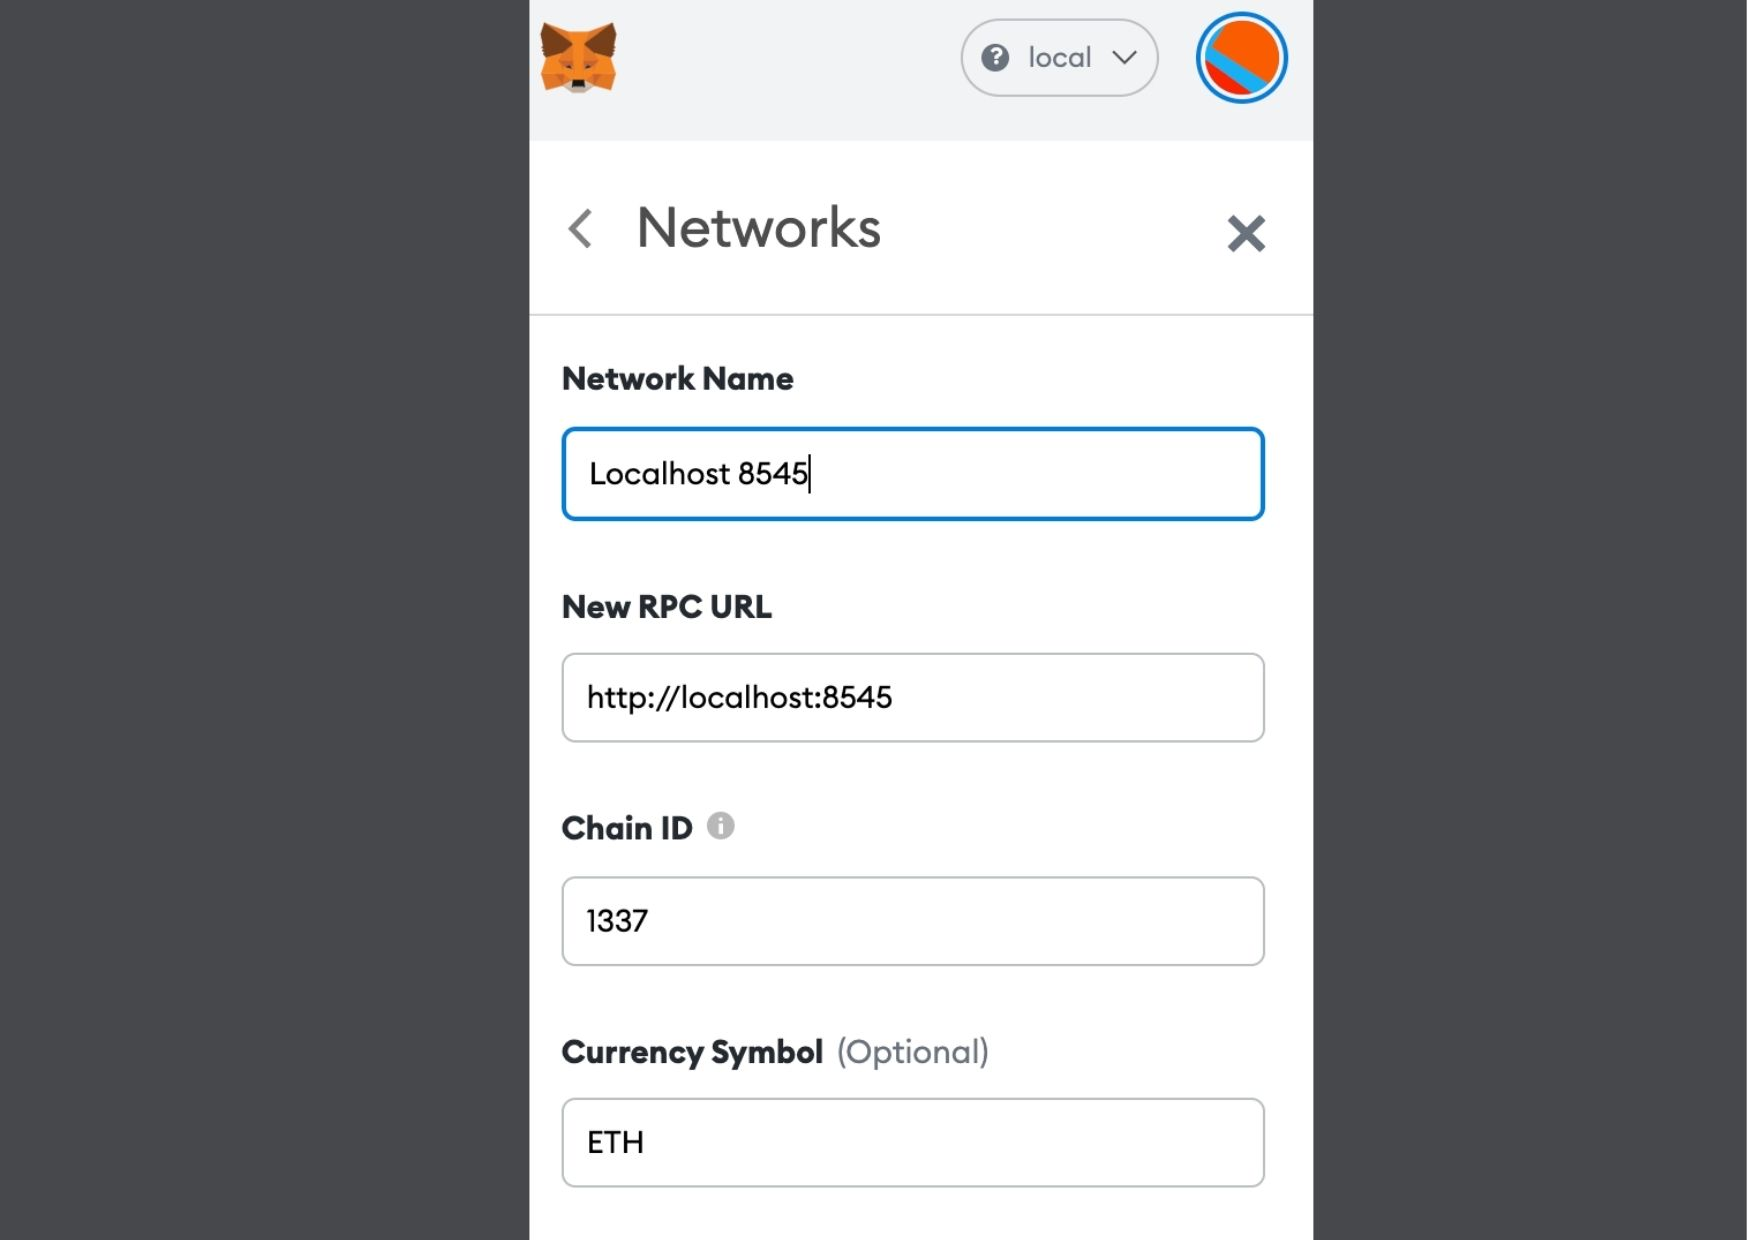
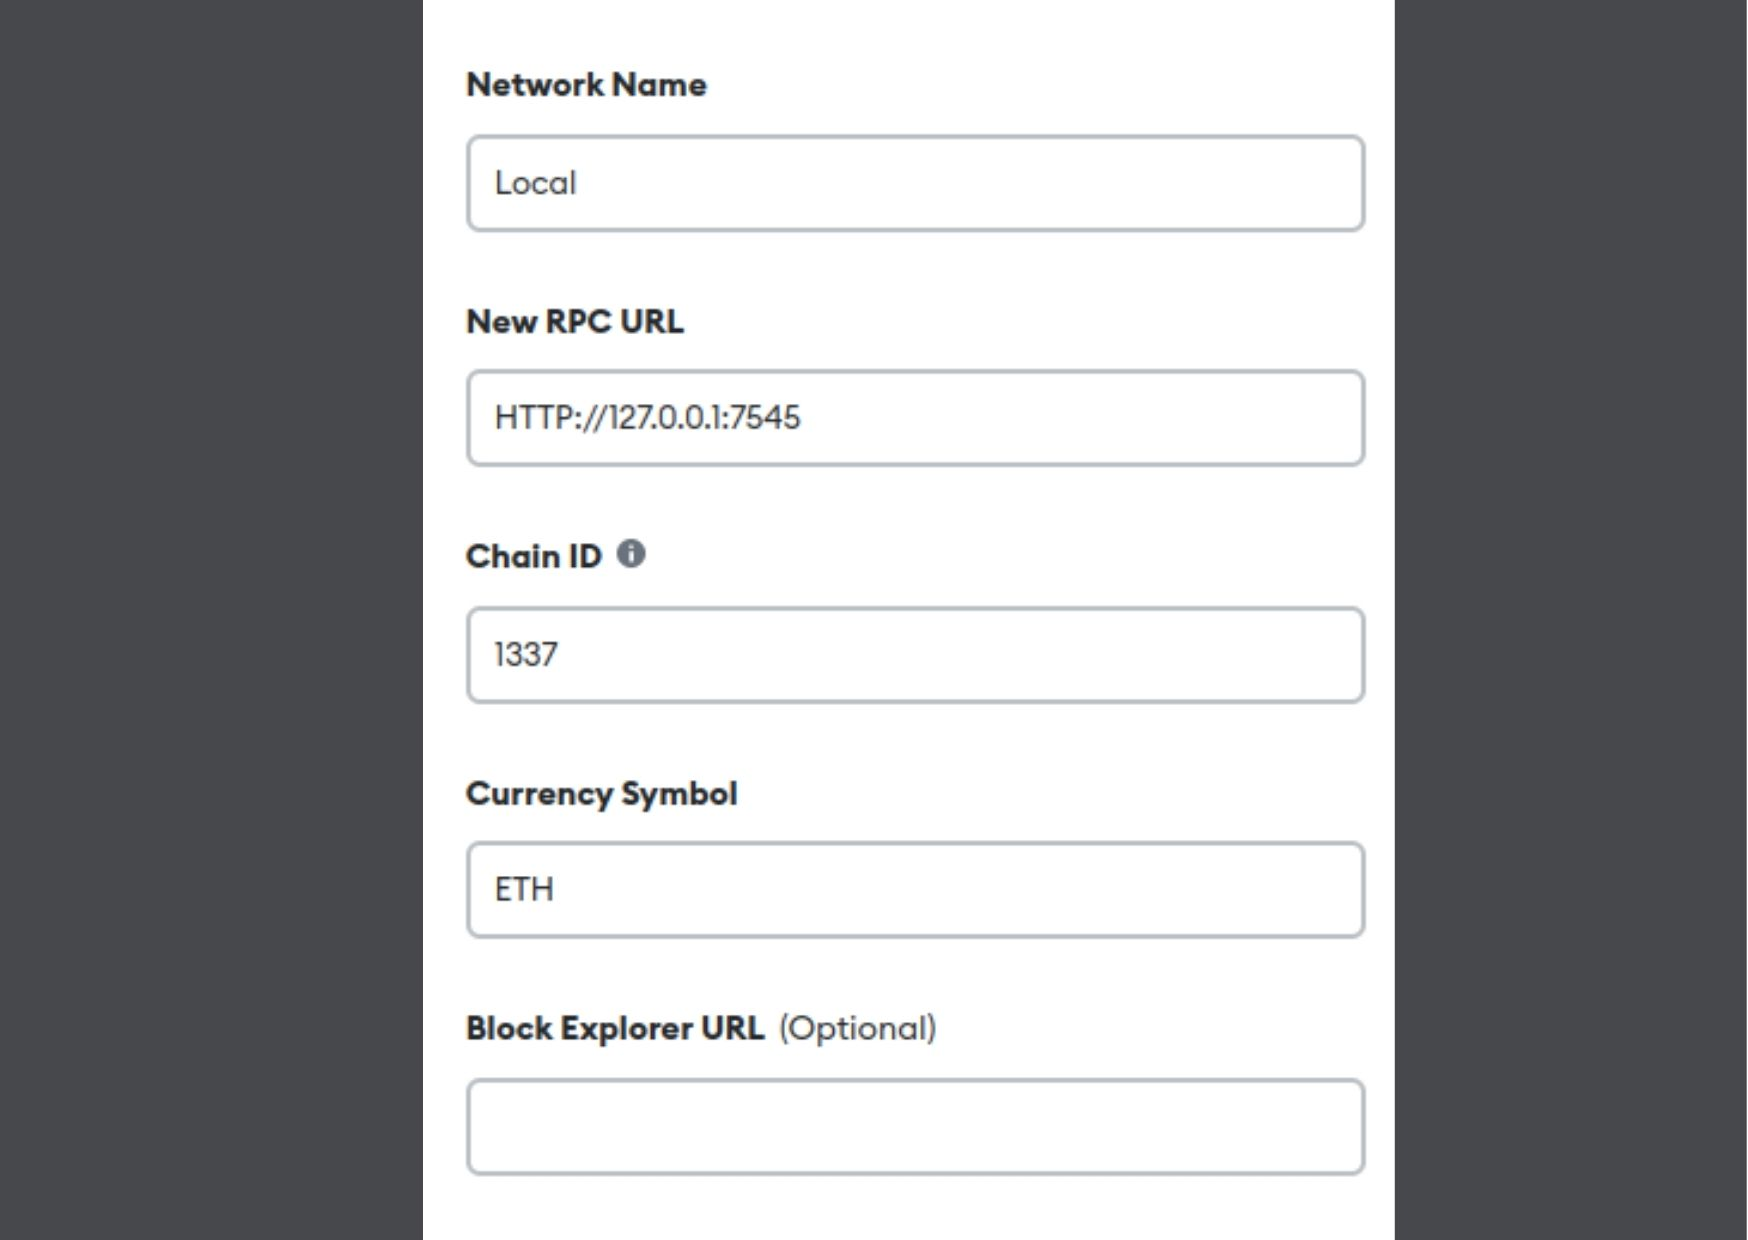
Updated blog data

Changed region(s): [[0.2162, 0.0, 0.8032, 1.0], [0.5561, 0.0306, 0.6487, 0.0613]]

diff --git a/data/blog/2022/create-ethereum-cryptocurrency-token-smart-contract.md b/data/blog/2022/create-ethereum-cryptocurrency-token-smart-contract.md
@@ -109,7 +109,7 @@ module.exports = {
   networks: {
      development: {
        host: "127.0.0.1",
-       port: 8545,
+       port: 7545,
        network_id: "*",
    },
 
